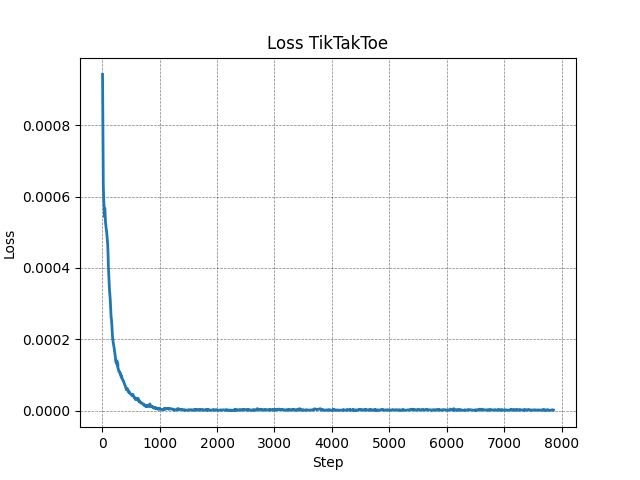
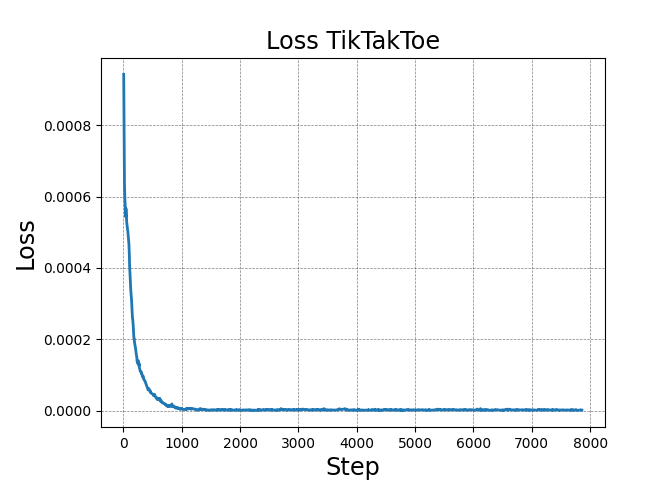
bigger text plots

diff --git a/testing.py b/testing.py
@@ -72,6 +72,9 @@ def testing(agent, env_class, size = 100, printing = True, load = None, plot = F
         rewards_dict = [[{"Reward":r[0][j], "Percentage":r[1][j], "Index":idx} for j in range(3)] for idx,r in zip(range(start,stop,step),rewards)]
         rewards_df = pd.DataFrame([rd for subrd in rewards_dict for rd in subrd])
         axes = sns.lineplot(rewards_df, linewidth=2, palette= "tab10",x="Index", y="Percentage", hue="Reward")
+        axes.set_xlabel("Index",size="xx-large")
+        axes.set_ylabel("Percentage",size="xx-large")
+        axes.legend(prop={'size':15}, title = "Reward", title_fontsize = "xx-large")
         axes.set_yticks(range(0,101,10))
         axes.grid(True,color = 'black', linestyle="--",linewidth=0.5)
         plt.show()
@@ -117,6 +120,9 @@ def testing_dif_agents(agent, env_class, size = 100, load = None, printing = Tru
         rewards_dict = [[{"Reward":r[0][j], "Percentage":r[1][j], "config_index": r[2] + str(r[3])} for j in range(3)] for r in rewards]
         rewards_df = pd.DataFrame([rd for subrd in rewards_dict for rd in subrd])
         axes = sns.barplot(rewards_df, linewidth=2, palette= "tab10",y="config_index", x="Percentage", hue="Reward", orient="h")
+        axes.set_xlabel("Percentage",size="xx-large")
+        #axes.set_ylabel("config_index",size="xx-large")
+        axes.legend(prop={'size':15}, title = "Reward", title_fontsize = "xx-large")
         axes.set_yticks(range(0,101,10))
         axes.grid(True,color = 'black', linestyle="--",linewidth=0.5)
         plt.show()
@@ -179,6 +185,9 @@ def testing_adapting(agent, env_class, batch_size = 100, sampling = 10, printing
         rewards_dict = [[{"Reward":r[0][j], "Percentage":r[1][j], "Index":idx} for j in range(3)] for idx,r in zip(range(start,stop,step),rewards)]
         rewards_df = pd.DataFrame([rd for subrd in rewards_dict for rd in subrd])
         axes = sns.lineplot(rewards_df, linewidth=2, palette= "tab10",x="Index", y="Percentage", hue="Reward")
+        axes.set_xlabel("Index",size="xx-large")
+        axes.set_ylabel("Percentage",size="xx-large")
+        axes.legend(prop={'size':15}, title = "Reward", title_fontsize = "xx-large")
         axes.set_yticks(range(0,101,10))
         axes.grid(True,color = 'black', linestyle="--",linewidth=0.5)
         plt.show()
@@ -234,6 +243,9 @@ def testing_adapting_dif_epsilon_opponents(agent, env_class, opponent : Agent, o
         rewards_dict = [[{"Reward":r[0][j], "Percentage":r[1][j], "Epsilon":idx} for j in range(3)] for idx,r in zip(np.linspace(1,0,opponent_size),rewards)]
         rewards_df = pd.DataFrame([rd for subrd in rewards_dict for rd in subrd])
         axes = sns.lineplot(rewards_df, linewidth=2, palette= "tab10",x="Epsilon", y="Percentage", hue="Reward")
+        axes.set_xlabel("Epsilon",size="xx-large")
+        axes.set_ylabel("Percentage",size="xx-large")
+        axes.legend(prop={'size':15}, title = "Reward", title_fontsize = "xx-large")
         axes.set_yticks(range(0,101,10))
         axes.grid(True,color = 'black', linestyle="--",linewidth=0.5)
         plt.show()

diff --git a/plot_tensorboard_data.py b/plot_tensorboard_data.py
@@ -9,22 +9,22 @@ path = "model/agent_linear_decay099/20230327-185908/tensorboard_data/"
 game  = "TikTakToe"
 
 # for creating a loss plot
-"""
+#"""
 files = ["loss"]
 plot_title = "Loss " + game
 y_value = "Loss"
 hue_value = None
 point = None
-"""
+#"""
 
 # for creating a reward plot
-# """
+"""
 files = ["reward1", "reward0", "reward-1"]
 plot_title = "Rewards " + game
 y_value = "Percentage"
 hue_value = "Reward"
 point =  5300 # The agent you chose to be shown in the plot
-# """
+"""
 
 # Code
 #*****
@@ -41,7 +41,11 @@ else:
 
 
 axes = sns.lineplot(dataframe, linewidth=2, palette= "tab10",x="Step", y=y_value, hue = hue_value)
-axes.set(title=plot_title)
+axes.set_title(plot_title, size="xx-large")
+axes.set_xlabel("Step",size="xx-large")
+axes.set_ylabel(y_value,size="xx-large")
+if hue_value != None:
+    axes.legend(prop={'size':15}, title = hue_value, title_fontsize = "xx-large")
 if y_value == "Percentage":
     axes.set_ylim(0,100)
     axes.set_yticks(range(0,101,10))
